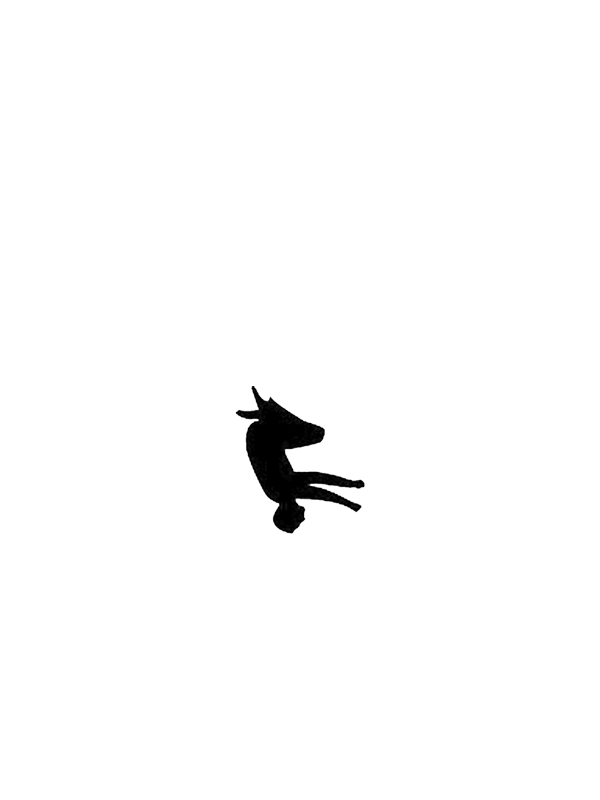
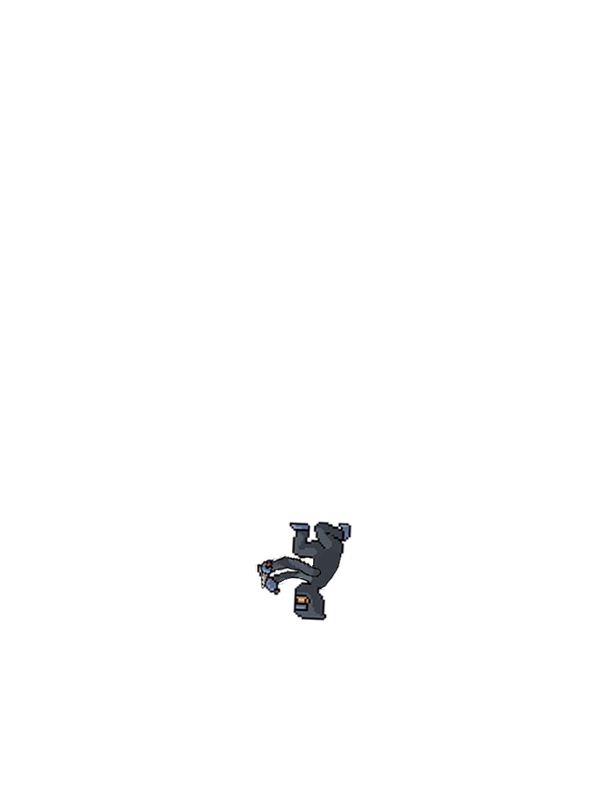
animacao do pulo

Changed region(s): [[0.39, 0.4688, 0.6, 0.7812]]

diff --git a/jogo_v1.py b/jogo_v1.py
@@ -2,6 +2,9 @@
 # ----- Importa e inicia pacotes
 import pygame
 import random
+import time
+
+from pygame.constants import KEYDOWN
 pygame.init()
 
 # ----- Gera tela principal
@@ -17,9 +20,19 @@ assets['fundo'] = pygame.image.load('assets/img/FUNDOJOGOFINAL.png').convert()
 assets['paredes'] = pygame.image.load('assets/img/PAREDESFINAL.png')
 assets['placa'] = pygame.image.load('assets/img/PLACA.png')
 #-----Imagens do ninja
+#Ninja andando
 assets['ninjainicio'] = pygame.image.load('assets/img/NINJAINICIO.png')
 assets['ninjadireita00'] = pygame.image.load('assets/img/NINJAANDANDODIREITA00.png')
 assets['ninjaesquerda00'] = pygame.image.load('assets/img/NINJAANDANDOESQUERDA00.png')
+assets['ninjadireita01'] = pygame.image.load('assets/img/NINJAANDANDODIREITA01.png')
+assets['ninjaesquerda01'] = pygame.image.load('assets/img/NINJAANDANDOESQUERDA01.png')
+#Ninja Pulando
+assets['ninjapulandod01'] = pygame.image.load('assets/img/NINJAPULANDODIREITA01.png')
+assets['ninjapulandod02'] = pygame.image.load('assets/img/NINJAPULANDODIREITA02.png')
+assets['ninjapulandod03'] = pygame.image.load('assets/img/NINJAPULANDODIREITA03.png')
+assets['ninjapulandoe01'] = pygame.image.load('assets/img/NINJAPULANDOESQUERDA01.png')
+assets['ninjapulandoe02'] = pygame.image.load('assets/img/NINJAPULANDOESQUERDA02.png')
+assets['ninjapulandoe03'] = pygame.image.load('assets/img/NINJAPULANDOESQUERDA03.png')
 
 #-----Imagens dos obstáculos
 assets['canoesquerda']= pygame.image.load('assets/img/CANOESQUERDA.png')
@@ -38,6 +51,15 @@ class Ninja(pygame.sprite.Sprite):
         self.rect = self.image.get_rect()
         self.rect.x = 0
         self.rect.y = 0
+        self.speedx = 0
+        self.speedy = 0
+
+    def update(self):
+        self.rect.x += self.speedx
+        if self.rect.x > WIDTH:
+            self.rect.x = 200
+        
+            
 
 class CanoE(pygame.sprite.Sprite):
     def __init__(self, img):
@@ -123,12 +145,13 @@ all_sprites = pygame.sprite.Group()
 
 player = Ninja(assets['ninjadireita00'])
 
+
 #----CANOS (POR CLASS)
 
 canoe = CanoE(assets['canoesquerda'])
 canod = CanoD(assets['canodireita'])
-#----ANTENA (POR CLASS)
 
+#----ANTENA (POR CLASS)
 antenae = AntenaE(assets['antenaesquerda'])
 antenad = AntenaD(assets['antenadireita'])
 #adicionando tudo num grupo só
@@ -140,6 +163,7 @@ all_sprites.add(antenad)
 all_sprites.add(player)
 
 
+
 # ===== Loop principal =====
 while game:
     clock.tick(60)
@@ -149,6 +173,21 @@ while game:
         # ----- Verifica consequências
         if event.type == pygame.QUIT:
             game = False
+        # ----- Verifica se apertou alguma tecla
+        if event.type == pygame.KEYDOWN:
+            if event.key == pygame.K_LEFT:
+                player.image = assets['ninjapulandod02']
+
+            if event.key == pygame.K_RIGHT:
+                player.image = assets['ninjapulandoe02']
+
+        if event.type == pygame.KEYUP:
+            # Dependendo da tecla, altera a velocidade.
+            if event.key == pygame.K_LEFT:
+                player.image = assets['ninjaesquerda00']
+            if event.key == pygame.K_RIGHT:
+                player.image = assets['ninjadireita00']
+                
         # ----- Atualiza estado do jogo
     # ----- Atualiza estado do jogo
     # Atualizando a posição do meteoro
